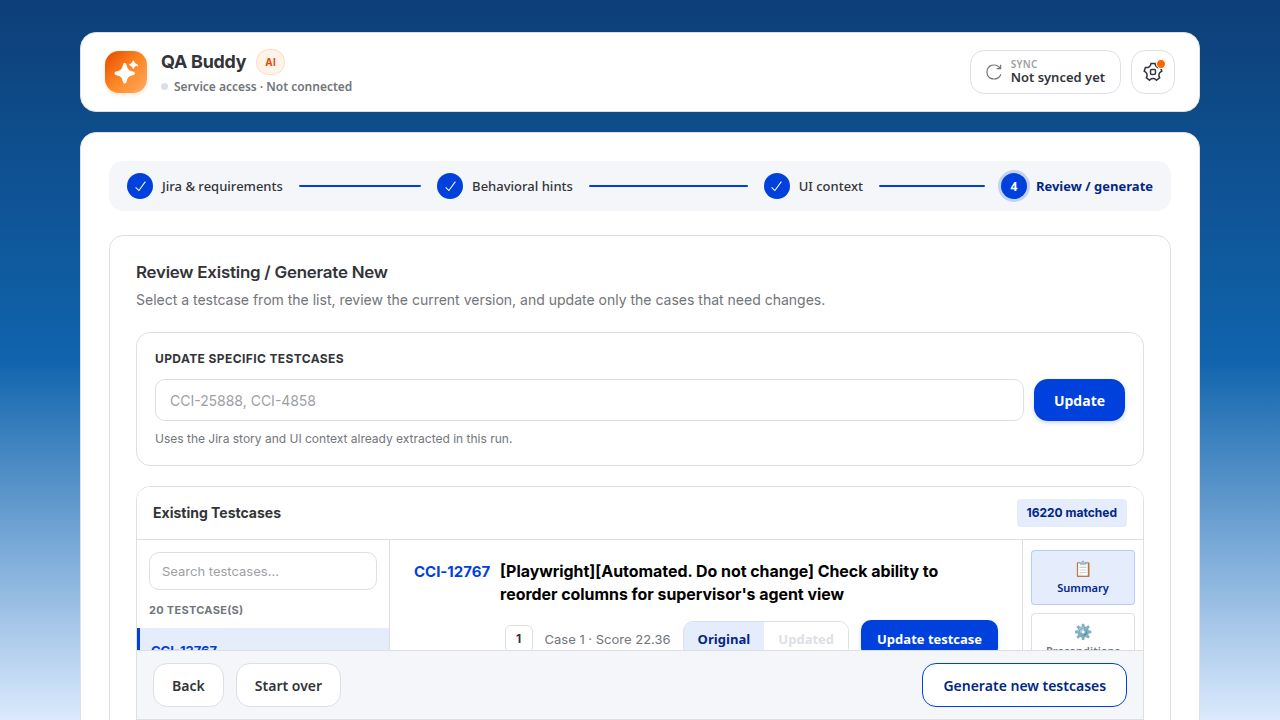
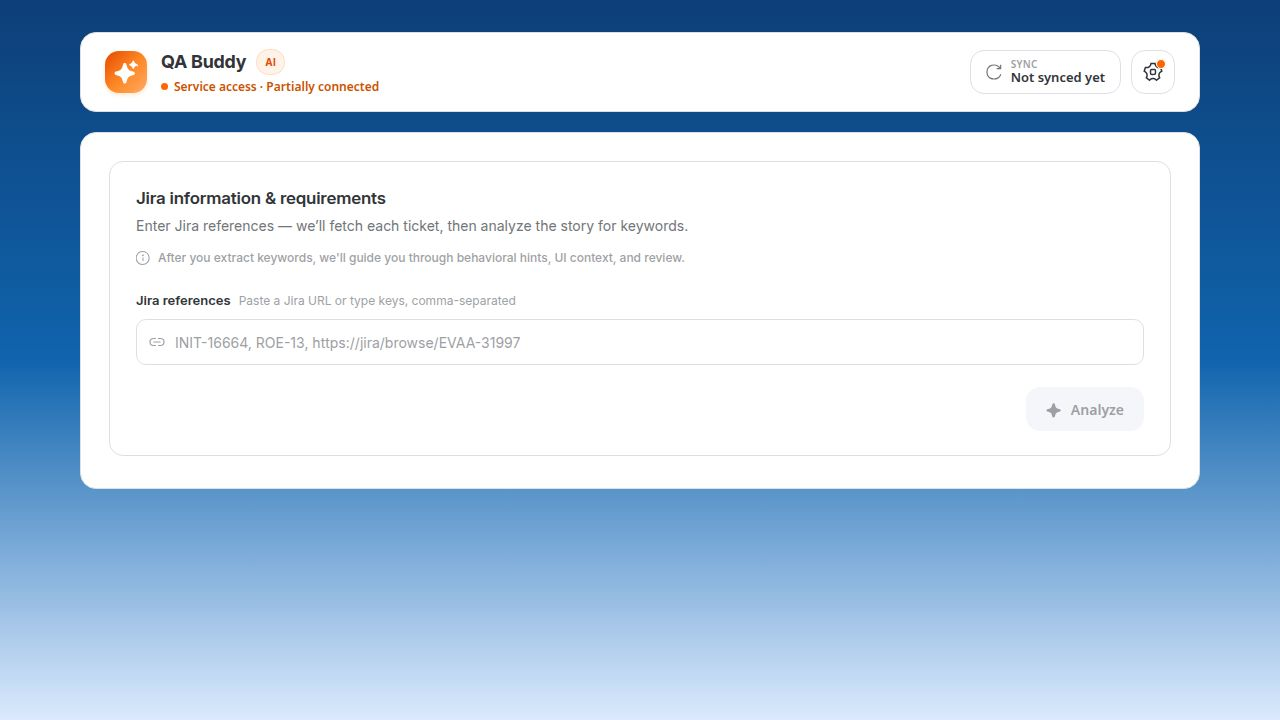
Task #16: Make service connection checks fake (demo mode)
Backend (artifacts/api-server/src/routes/services.ts):
- Added DEMO_MODE = true constant (with comment on how to restore real checks).
- /api/services/config now reports Jira and OpenAI as configured in demo mode,
  with fake accounts when .env values are absent.
- testConfluence/testTestit: after the existing empty-field validation, demo
  mode waits ~700ms and returns a successful "Connected" outcome (Confluence
  derives a fake account from the username). Real fetch code kept intact but
  bypassed; empty fields still return missing_field errors.

Frontend (artifacts/claude-design/template_content.html, repacked into index.html):
- fetchServerConfig now falls back to a demo config (Jira connected) instead of
  serverCfgFailed when the app server is unreachable.
- testService's catch simulates a successful check (700ms delay) instead of
  showing the red "Can't reach the app server" error.
- Client-side "enter your credentials" prompts unchanged; localStorage saving
  unchanged.

Verification:
- curl: config returns configured Jira/OpenAI; confluence/testit tests return
  ok in ~0.75s; empty creds still return missing_field.
- Screenshot with modal temporarily open + auto-tests: all three pills show
  "Connected", green result lines, no red errors. Temp state reverted; bundle
  roundtrip + binding parity verified.
- Fixed stale lib/api-zod dist (pnpm exec tsc -b lib/api-zod) so api-server
  tsc --noEmit passes; that staleness pre-dated this task.
[…]

diff --git a/artifacts/api-server/src/routes/services.ts b/artifacts/api-server/src/routes/services.ts
@@ -7,6 +7,15 @@ import {
 
 const router: IRouter = Router();
 
+// Demo mode: skip real external calls and simulate successful connections.
+// Set to false to restore real Confluence/TestIT checks below.
+const DEMO_MODE = true;
+const DEMO_CHECK_DELAY_MS = 700;
+
+function demoDelay(): Promise<void> {
+  return new Promise((resolve) => setTimeout(resolve, DEMO_CHECK_DELAY_MS));
+}
+
 const CHECK_TIMEOUT_MS = 6000;
 
 function maskKey(key: string): string {
@@ -19,16 +28,29 @@ router.get("/services/config", (_req, res) => {
   const jiraToken = process.env.JIRA_API_TOKEN || "";
   const openaiKey = process.env.OPENAI_API_KEY || "";
 
-  const data = GetServicesConfigResponse.parse({
-    jira: {
-      configured: Boolean(jiraEmail && jiraToken),
-      ...(jiraEmail ? { account: jiraEmail } : {}),
-    },
-    openai: {
-      configured: Boolean(openaiKey),
-      ...(openaiKey ? { account: maskKey(openaiKey) } : {}),
-    },
-  });
+  const data = GetServicesConfigResponse.parse(
+    DEMO_MODE
+      ? {
+          jira: {
+            configured: true,
+            account: jiraEmail || "[email redacted]",
+          },
+          openai: {
+            configured: true,
+            account: openaiKey ? maskKey(openaiKey) : maskKey("demo-key-4dm0"),
+          },
+        }
+      : {
+          jira: {
+            configured: Boolean(jiraEmail && jiraToken),
+            ...(jiraEmail ? { account: jiraEmail } : {}),
+          },
+          openai: {
+            configured: Boolean(openaiKey),
+            ...(openaiKey ? { account: maskKey(openaiKey) } : {}),
+          },
+        },
+  );
   res.json(data);
 });
 
@@ -56,6 +78,11 @@ async function testConfluence(username: string, token: string): Promise<TestOutc
       reason: "missing_field",
       message: "Enter your Confluence username and API token.",
     };
+  }
+  if (DEMO_MODE) {
+    await demoDelay();
+    const account = username.includes("@") ? username.trim() : `${username.trim()}@evaa.atlassian.net`;
+    return { ok: true, account, message: "Connected to Confluence." };
   }
   const base = (process.env.CONFLUENCE_BASE_URL || "https://evaa.atlassian.net/wiki").replace(/\/+$/, "");
   const auth = Buffer.from(`${username}:${token}`).toString("base64");
@@ -106,6 +133,10 @@ async function testTestit(token: string): Promise<TestOutcome> {
       reason: "missing_field",
       message: "Enter your TestIT token.",
     };
+  }
+  if (DEMO_MODE) {
+    await demoDelay();
+    return { ok: true, message: "Connected to TestIT." };
   }
   const base = (process.env.TESTIT_BASE_URL || "").replace(/\/+$/, "");
   if (!base) {

diff --git a/artifacts/claude-design/template_content.html b/artifacts/claude-design/template_content.html
@@ -1049,11 +1049,15 @@ class Component extends DCLogic {
     } catch (e) {}
   }
 
+  // Demo mode: if the app server can't be reached, fall back to a demo config
+  // so Jira still shows as connected. Remove the fallback to restore real behavior.
+  DEMO_SERVER_CFG = { jira: { configured: true, account: '[email redacted]' }, openai: { configured: true } };
+
   fetchServerConfig(){
     fetch('/api/services/config')
       .then(r => { if (!r.ok) throw new Error('bad status'); return r.json(); })
       .then(cfg => this.setState({ serverCfg: cfg, serverCfgFailed: false }))
-      .catch(() => this.setState({ serverCfg: null, serverCfgFailed: true }));
+      .catch(() => this.setState({ serverCfg: this.DEMO_SERVER_CFG, serverCfgFailed: false }));
   }
 
   setCheck(svc, patch){
@@ -1084,18 +1088,19 @@ class Component extends DCLogic {
       .then(res => this.setCheck(svc, res.ok
         ? { status:'ok', account: res.account || '' }
         : { status:'fail', message: res.message || 'The check didn\u2019t finish. Try again.' }))
-      .catch(() => this.setCheck(svc, { status:'fail', message:'Can\u2019t reach the app server. Try again.' }));
+      .catch(() => {
+        // Demo mode: if the app server can't be reached, simulate a successful check.
+        const account = svc === 'confluence'
+          ? (s.cUser.includes('@') ? s.cUser.trim() : s.cUser.trim() + '@evaa.atlassian.net')
+          : '';
+        setTimeout(() => this.setCheck(svc, { status:'ok', account }), 700);
+      });
   }
 
   setCred(key, svc){
     return (e) => {
       const v = e.target.value;
       this.setState(st => ({ [key]: v, checks: { ...st.checks, [svc]: { status:'idle' } } }));
-      setTimeout(() => {
-        const st = this.state;
-        const ready = svc === 'confluence' ? (st.cUser.trim() && st.cToken.trim()) : !!st.tToken.trim();
-        if (ready) this.testService(svc);
-      }, 0);
     };
   }
 

diff --git a/.agents/memory/ts-project-references.md b/.agents/memory/ts-project-references.md
@@ -1,0 +1,10 @@
+---
+name: TS project references stale dist
+description: Why @workspace/api-zod exports can appear "missing" to tsc even though the server runs fine
+---
+
+`lib/api-zod` (and similar workspace libs) are composite TS project references with `emitDeclarationOnly` into `dist/`. Runtime resolution uses `src/index.ts` directly, so the dev server works, but `tsc --noEmit` in a consumer (e.g. api-server) reads the built `dist/*.d.ts`.
+
+**Why:** after regenerating `src/generated/api.ts`, the stale `dist` makes tsc report `TS2305: no exported member` for symbols that clearly exist in source.
+
+**How to apply:** rebuild the reference with `pnpm exec tsc -b lib/api-zod` (no package `build` script exists), then re-run the consumer's type check.

diff --git a/.agents/memory/MEMORY.md b/.agents/memory/MEMORY.md
@@ -1,1 +1,2 @@
 - [Bundled design artifact editing](bundled-design-artifacts.md) — unpack/repack __bundler/template JSON with <\u002F escaping; check {{binding}} parity; screenshot via REPLIT_DEV_DOMAIN when :80 proxy down.
+- [TS project references stale dist](ts-project-references.md) — tsc reads workspace libs' dist .d.ts; regen'd api-zod exports look "missing" until `pnpm exec tsc -b lib/api-zod`.